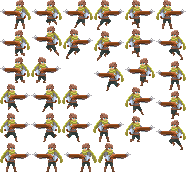
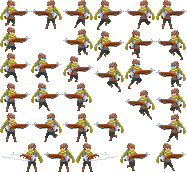
fixed monsters not attacking player when not moving. weird bug.

diff --git a/phaser/Crypt/js/prefabs/player.js b/phaser/Crypt/js/prefabs/player.js
@@ -7,6 +7,7 @@ var Player = function(game, x, y, key)
 	this.anchor.setTo(0.5);
 	//this.scale.setTo(4);
 	this.smoothed = false;
+	
 
 	//Physics
 	game.physics.arcade.enableBody(this);
@@ -113,8 +114,18 @@ var Player = function(game, x, y, key)
 	this.animations.add('idler' , ['idleright'] , 1, true);
 	this.animations.add('rjump' , Phaser.Animation.generateFrameNames('rjump', 1,6), 6, true);
 	this.animations.add('ljump' , Phaser.Animation.generateFrameNames('ljump', 1, 6), 6, true);
-	this.animations.add('mright', Phaser.Animation.generateFrameNames('mright', 1, 3), 3, true);
-	this.animations.add('mleft' , Phaser.Animation.generateFrameNames('mleft', 1, 3), 3, true);
+	this.animations.add('mright', Phaser.Animation.generateFrameNames('mright', 1, 3), 12, true);
+	this.animations.add('mleft' , Phaser.Animation.generateFrameNames('mleft', 1, 3), 12, true);
+
+	//COLLECTION PARTICLES
+	this.particleBit = game.add.bitmapData(4,4);
+	this.particleBit.ctx.beginPath();
+	this.particleBit.ctx.rect(0,0, this.particleBit.width, this.particleBit.height);
+	this.particleBit.ctx.fillStyle = '#ffffff';
+	this.particleBit.ctx.fill();
+	game.cache.addBitmapData('particle2', this.particleBit);
+
+	
 
 
 	game.add.existing(this);
@@ -176,7 +187,7 @@ Player.prototype.movement = function() //if jumping limit speed
 		else
 		{
 			//animation idle
-			if(this.body.velocity.y == 0){
+			if(this.body.velocity.y == 0 && !this.shootDirectionleft.isDown && !this.shootDirectionright.isDown){
 				if(this.lastDirection == 'right')
 					this.animations.play('idler');
 				else if(this.lastDirection == 'left')
@@ -217,11 +228,11 @@ Player.prototype.shooting = function(state)
 				this.gun.fireAngle = Phaser.ANGLE_RIGHT;
 				this.gun.fireOffset(16,-4);
 			}
-			else if(this.shootDirectionup.isDown)
+			/*else if(this.shootDirectionup.isDown)
 			{
 				this.gun.fireAngle = Phaser.ANGLE_UP;
 				this.gun.fireOffset(16,-4);//Need to set these offsets according to the sprite animations
-			}
+			}*/
 			else if(this.shootDirectionleft.isDown)
 			{
 				this.lastDirection = 'left';
@@ -249,7 +260,7 @@ Player.prototype.shooting = function(state)
 				this.gun.fireOffset(16,-4);
 				this.gun.fireOffset(16,-4);
 			}
-			else if(this.shootDirectionup.isDown)
+			/*else if(this.shootDirectionup.isDown)
 			{
 				this.gun.fireAngle = Phaser.ANGLE_UP;
 				this.gun.fireOffset(16,-4);//Need to set these offsets according to the sprite animations
@@ -258,7 +269,7 @@ Player.prototype.shooting = function(state)
 				this.gun.fireOffset(16,-4);
 				this.gun.fireOffset(16,-4);
 				this.gun.fireOffset(16,-4);
-			}
+			}*/
 			else if(this.shootDirectionleft.isDown)
 			{
 				this.lastDirection = 'left';
@@ -420,6 +431,14 @@ Player.prototype.upgrade = function(player, upgrade)
 	this.applyUpgrade(upgradeName);
 	upgrade.kill();
 	this.collectPowerupSound.play();
+	//PARTICLES
+	//EMITTER
+	this.emitter = game.add.emitter(this.x, this.y, 20);
+	this.emitter.makeParticles(game.cache.getBitmapData('particle2'));
+	this.emitter.minParticleAlpha = 0.2;
+	this.emitter.lifespan = 500;
+	this.emitter.gravity = -400;
+	this.emitter.explode();
 }
 Player.prototype.applyUpgrade = function(upgradeName)
 {

diff --git a/phaser/Crypt/js/states/PreLoad.js b/phaser/Crypt/js/states/PreLoad.js
@@ -27,14 +27,14 @@ PreLoad.prototype = {	//WE CAN ADD THE LOADING SCREEN HERE
 
 		game.load.bitmapFont('carrier', 'assets/fonts/carrier_command.png', 'assets/fonts/carrier_command.xml');
 
-		game.load.audio('jump', 'assets/audio/sfx/jump.wav');
-		game.load.audio('shoot', 'assets/audio/sfx/shoot.wav');
-		game.load.audio('melee', 'assets/audio/sfx/melee.wav');
-		game.load.audio('player_hit', 'assets/audio/sfx/player_hit.wav');
-		game.load.audio('enemy_hit', 'assets/audio/sfx/enemy_hit.wav');
-		game.load.audio('collect_powerup', 'assets/audio/sfx/collect.wav');
-		game.load.audio('collect_corpse', 'assets/audio/sfx/collect_corpse.wav');
-		game.load.audio('music', 'assets/audio/game_music.mp3');
+		game.load.audio('jump', 'assets/audio/sfx/jump.wav', 0.5);
+		game.load.audio('shoot', 'assets/audio/sfx/shoot.wav', 0.5);
+		game.load.audio('melee', 'assets/audio/sfx/melee.wav', 0.5);
+		game.load.audio('player_hit', 'assets/audio/sfx/player_hit.wav', 0.5);
+		game.load.audio('enemy_hit', 'assets/audio/sfx/enemy_hit.wav', 0.5);
+		game.load.audio('collect_powerup', 'assets/audio/sfx/collect.wav', 0.5);
+		game.load.audio('collect_corpse', 'assets/audio/sfx/collect_corpse.wav', 0.5);
+		game.load.audio('music', 'assets/audio/game_music.mp3', 0);
 
 		game.load.tilemap('Tutorial', 'assets/map/Tutorial.json', null, Phaser.Tilemap.TILED_JSON);
 		game.load.tilemap('map1', 'assets/map/EnemyTest.json', null, Phaser.Tilemap.TILED_JSON);
@@ -50,23 +50,23 @@ PreLoad.prototype = {	//WE CAN ADD THE LOADING SCREEN HERE
 	},
 	create: function()
 	{
-<<<<<<< HEAD
+
 		// music (will continue to play in other states)
 		//Seems I was wrong about allowMultiple = false stoping the original music. Instead it just layers
 		//adding it here did end up being the correct solution.
 		var music = game.add.audio('music');
-		music.volume = 0.7;
+		music.volume = 0.1;
         music.allowMultiple = false;
-        music.volume = 0.7;
         music.loop = true;
         music.play();
 
-		game.state.start("Main");//newLife
+		
 
-
-
-=======
-		game.state.start("Main");
->>>>>>> 459f2bfd09960df9711aca4815bffca8c00ab41f
+	},
+	update: function()
+	{
+		if(this.cache.isSoundDecoded('music')){
+			game.state.start("Main");
+		}
 	}
 }

diff --git a/phaser/Crypt/js/states/Death.js b/phaser/Crypt/js/states/Death.js
@@ -17,27 +17,22 @@ Death.prototype = {
         game.world.width = game.width;
         game.world.height = game.height;
 
-<<<<<<< HEAD
-        var str = 'You have died (room ' + (gameData.room + 1) + ')\n\nPress Z to continue or C\nto return to Main Menu'
-=======
+
         var str = 'You have died (room ' + (gameData.room + 1) + ')\n\n'
         str += 'Best run: room ' + (gameData.bestRoom + 1) + '\n\n\n';
         str += 'Press Z to continue\n\n';
         str += 'Press C to return to menu\n\n';
->>>>>>> 459f2bfd09960df9711aca4815bffca8c00ab41f
+
         var text = game.add.bitmapText(game.world.width / 2, 400, 'carrier' , str, 24);
         text.align = 'center';
         text.anchor.set(0.5);
 
         var key = game.input.keyboard.addKey(Phaser.Keyboard.Z);
         key.onDown.addOnce(this.newLife, this);
-<<<<<<< HEAD
-        var main = game.input.keyboard.addKey(Phaser.Keyboard.C);
-        main.onDown.addOnce(this.returnMain, this);
-=======
+
         var key = game.input.keyboard.addKey(Phaser.Keyboard.C);
         key.onDown.addOnce(this.exitRun, this);
->>>>>>> 459f2bfd09960df9711aca4815bffca8c00ab41f
+
 
 		game.camera.flash('#000000', 1000);
     },
@@ -46,12 +41,9 @@ Death.prototype = {
     {
         game.state.start('newLife');
     },
-<<<<<<< HEAD
-    returnMain: function()
-=======
+
 
     exitRun: function()
->>>>>>> 459f2bfd09960df9711aca4815bffca8c00ab41f
     {
         game.state.start('Main');
     }

diff --git a/phaser/Crypt/js/levels/LevelLoader.js b/phaser/Crypt/js/levels/LevelLoader.js
@@ -100,8 +100,8 @@ LevelLoader.createTutorialText = function()
 {
     game.add.bitmapText(50, 390, 'carrier', " Use arrow keys\n\nto move and jump", 12);
     game.add.bitmapText(520, 330, 'carrier', "You can jump again\n\n    in the air", 12);
-    game.add.bitmapText(30, 130, 'carrier', "  Use Z,X,C to attack\n\nand R to switch between\n\n   melee and ranged", 12);
-    game.add.bitmapText(400, 120, 'carrier', "Find powerups or gravestones\n\n to improve your character", 12);
+    game.add.bitmapText(30, 100, 'carrier', "  Use Z,C to attack \n\n    horizontally\n\nand R to switch between\n\n   melee and ranged", 12);
+    game.add.bitmapText(400, 120, 'carrier', "Find powerups or gravestones\n\n to improve your character\n\n Enemies get stronger every Room", 12);
 }
 
 LevelLoader.playerDiedFade = function()

diff --git a/phaser/Crypt/js/states/MainMenu.js b/phaser/Crypt/js/states/MainMenu.js
@@ -14,8 +14,6 @@ MainMenu.prototype = {
 
 	create: function()
 	{
-<<<<<<< HEAD
-=======
 		// Start music
 		if (!gameMusic)
 		{
@@ -25,7 +23,7 @@ MainMenu.prototype = {
 			gameMusic.play();
 		}
 
->>>>>>> 459f2bfd09960df9711aca4815bffca8c00ab41f
+
 		// title and buttons
 		this.menu = this.time.now + 200;
 		game.world.width = game.width;
@@ -109,15 +107,11 @@ MainMenu.prototype = {
 			}
 			else if(selection == 2)
 			{
-<<<<<<< HEAD
-				//FIGURE OUT THIS STATE
-
-=======
 				// Start tutorial
 				LevelLoader.resetRun();
 				LevelLoader.tutorial = true;
 				game.state.start("play");
->>>>>>> 459f2bfd09960df9711aca4815bffca8c00ab41f
+
 			}
 			else if(selection == 3)
 			{

diff --git a/phaser/Crypt/js/prefabs/enemy.js b/phaser/Crypt/js/prefabs/enemy.js
@@ -10,7 +10,7 @@ var Enemy = function(game, x, y, key)
 	this.body.gravity.y = 900;
 	this.body.collideWorldBounds = true;
 	this.enemySpeed = 100;
-	this.maxHealth = 100 +(25 *(gameData.room)); //Should be upgraded each map, percentage can be done with * 1.05 for 5% etc. gamedata.room + 1
+	this.maxHealth = 50 +(35 *(gameData.room)); //Should be upgraded each map, percentage can be done with * 1.05 for 5% etc. gamedata.room + 1
 	this.setHealth(this.maxHealth);
 	this.chaseRange = 60;
 	this.playerDamage = 10 + (15 * (gameData.room));	

diff --git a/phaser/Crypt/js/states/Play.js b/phaser/Crypt/js/states/Play.js
@@ -56,8 +56,8 @@ Play.prototype = {
 	render: function()
 	{
 		//game.debug.body(_player);
-		game.debug.body(_player.meleeRect);
-		game.debug.body(_player.meleeRectVert);
+		//game.debug.body(_player.meleeRect);
+		//game.debug.body(_player.meleeRectVert);
 		//game.debug.physicsGroup(_enemies);
 		//game.debug.physicsGroup(reverseWaypoints);
 		//game.debug.body(zombie);
